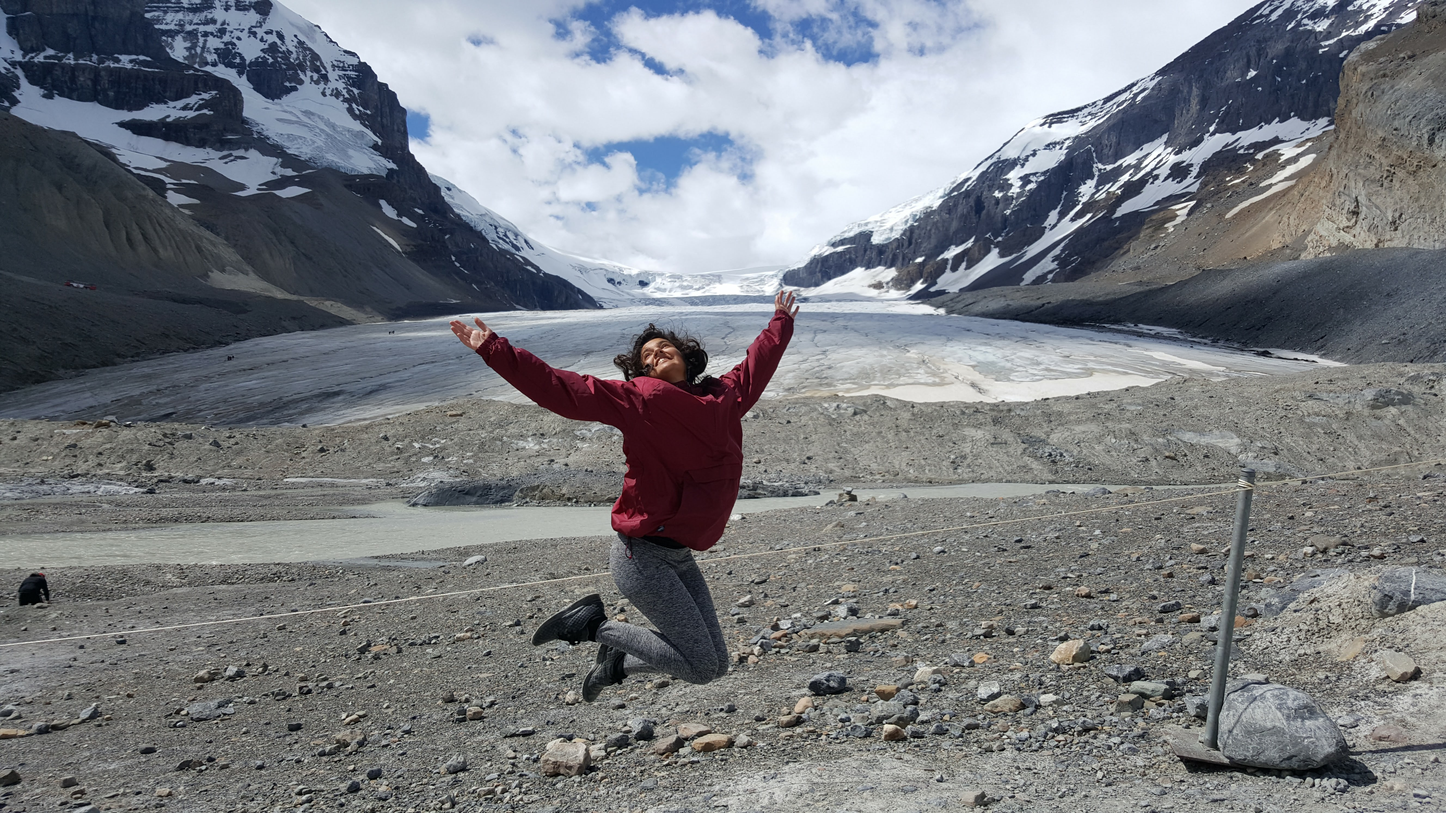
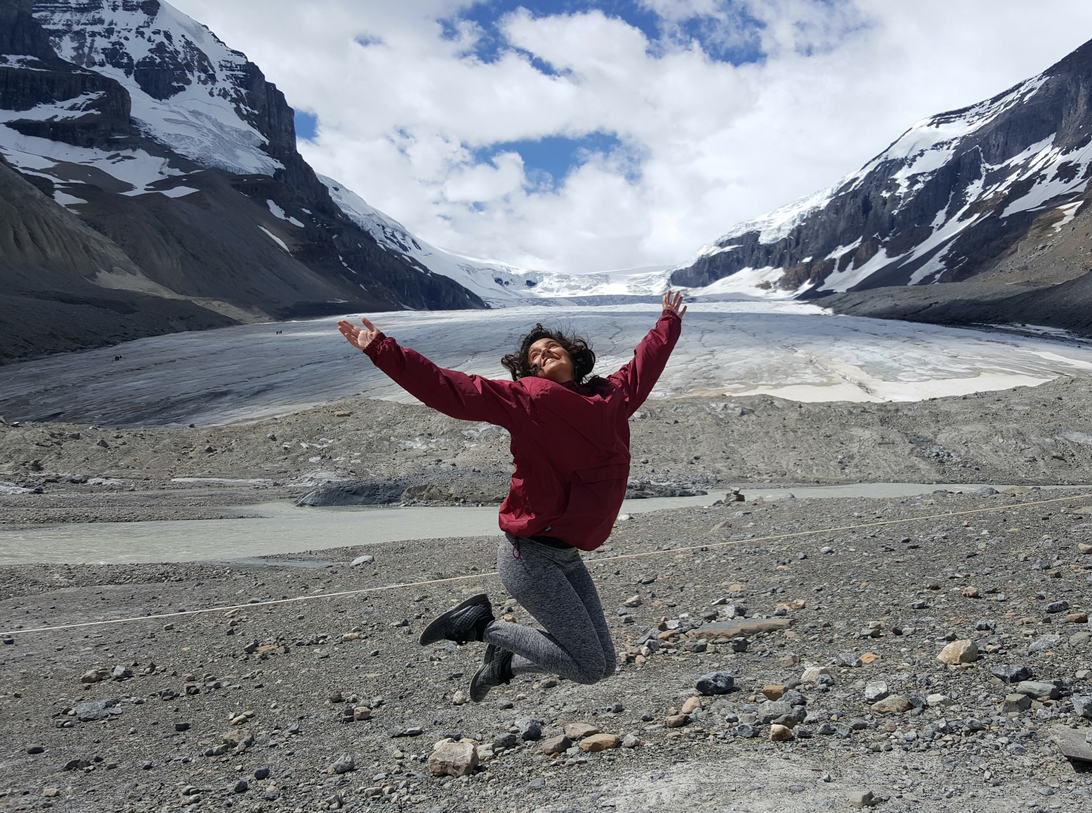
update pics

diff --git a/index.html b/index.html
@@ -123,7 +123,7 @@
                   <i class="fa fa-plus fa-3x"></i>
                 </div>
               </div>
-              <img class="img-fluid" src="img/portfolio/Houraathumbnail.jpg" alt="">
+              <img class="img-fluid" src="img/portfolio/Houraa10thumbnail.jpg" alt="">
             </a>
             <div class="portfolio-caption">
               <h4>Dr. Lisa Beal</h4>
@@ -151,7 +151,7 @@
                   <i class="fa fa-plus fa-3x"></i>
                 </div>
               </div>
-              <img class="img-fluid" src="img/portfolio/Houraa8thumbnail.jpg" alt="">
+              <img class="img-fluid" src="img/portfolio/Houraa9thumbnail.jpg" alt="">
             </a>
             <div class="portfolio-caption">
               <h4>Dr. Pierre L'Hegaret</h4>
@@ -193,7 +193,7 @@
                   <i class="fa fa-plus fa-3x"></i>
                 </div>
               </div>
-              <img class="img-fluid" src="img/portfolio/Houraa3thumbnail.jpeg" alt="">
+              <img class="img-fluid" src="img/portfolio/Houraa3thumbnail.jpg" alt="">
             </a>
             <div class="portfolio-caption">
               <h4>Houraa Daher</h4>
@@ -510,7 +510,7 @@
                   <!-- Project Details Go Here -->
                   <h2>Dr. Lisa Beal</h2>
                   <p class="item-intro text-muted">Professor and Associate Dean of Research</p>
-                  <img class="img-fluid d-block mx-auto" src="img/portfolio/Houraa.jpg" alt="">
+                  <img class="img-fluid d-block mx-auto" src="img/portfolio/Houraa10.jpg" alt="">
                   <p>Use this area to describe your project. Lorem ipsum dolor sit amet, consectetur adipisicing elit. Est blanditiis dolorem culpa incidunt minus dignissimos deserunt repellat aperiam quasi sunt officia expedita beatae cupiditate, maiores repudiandae, nostrum, reiciendis facere nemo!</p>
                   <ul class="list-inline">
                     <li>Date: January 2017</li>
@@ -578,7 +578,7 @@
                   <!-- Project Details Go Here -->
                   <h2>Dr. Pierre L'Hegaret</h2>
                   <p class="item-intro text-muted">Postdoctoral Researcher</p>
-                  <img class="img-fluid d-block mx-auto" src="img/portfolio/Houraa8.jpg" alt="">
+                  <img class="img-fluid d-block mx-auto" src="img/portfolio/Houraa9.jpg" alt="">
                   <p>Use this area to describe your project. Lorem ipsum dolor sit amet, consectetur adipisicing elit. Est blanditiis dolorem culpa incidunt minus dignissimos deserunt repellat aperiam quasi sunt officia expedita beatae cupiditate, maiores repudiandae, nostrum, reiciendis facere nemo!</p>
                   <ul class="list-inline">
                     <li>Date: January 2017</li>
@@ -680,7 +680,7 @@
                   <!-- Project Details Go Here -->
                   <h2>Houraa Daher</h2>
                   <p class="item-intro text-muted">2nd Year PhD Student</p>
-                  <img class="img-fluid d-block mx-auto" src="img/portfolio/Houraa3.jpeg" alt="">
+                  <img class="img-fluid d-block mx-auto" src="img/portfolio/Houraa3.jpg" alt="">
                   <p>Use this area to describe your project. Lorem ipsum dolor sit amet, consectetur adipisicing elit. Est blanditiis dolorem culpa incidunt minus dignissimos deserunt repellat aperiam quasi sunt officia expedita beatae cupiditate, maiores repudiandae, nostrum, reiciendis facere nemo!</p>
                   <ul class="list-inline social-buttons">
                     <li class="list-inline-item">
